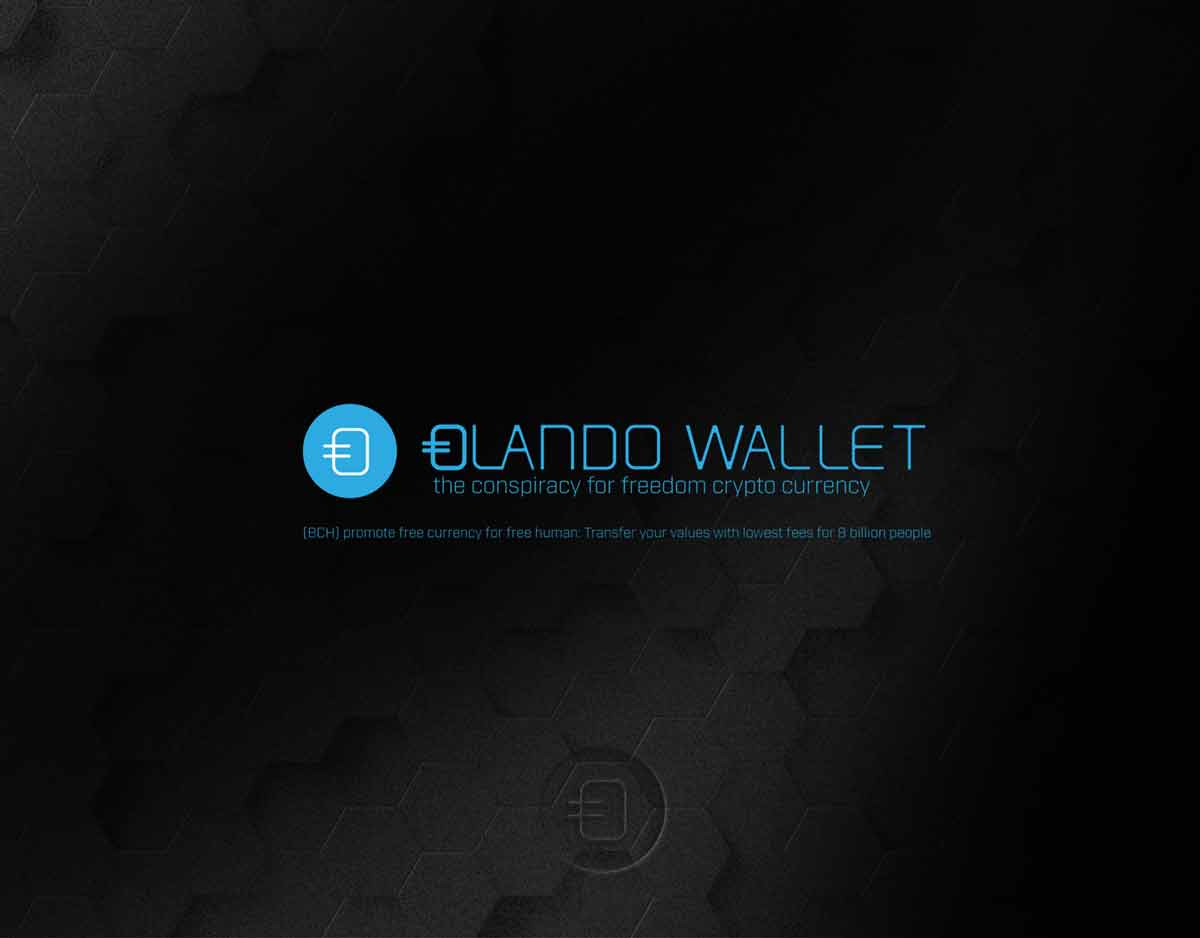
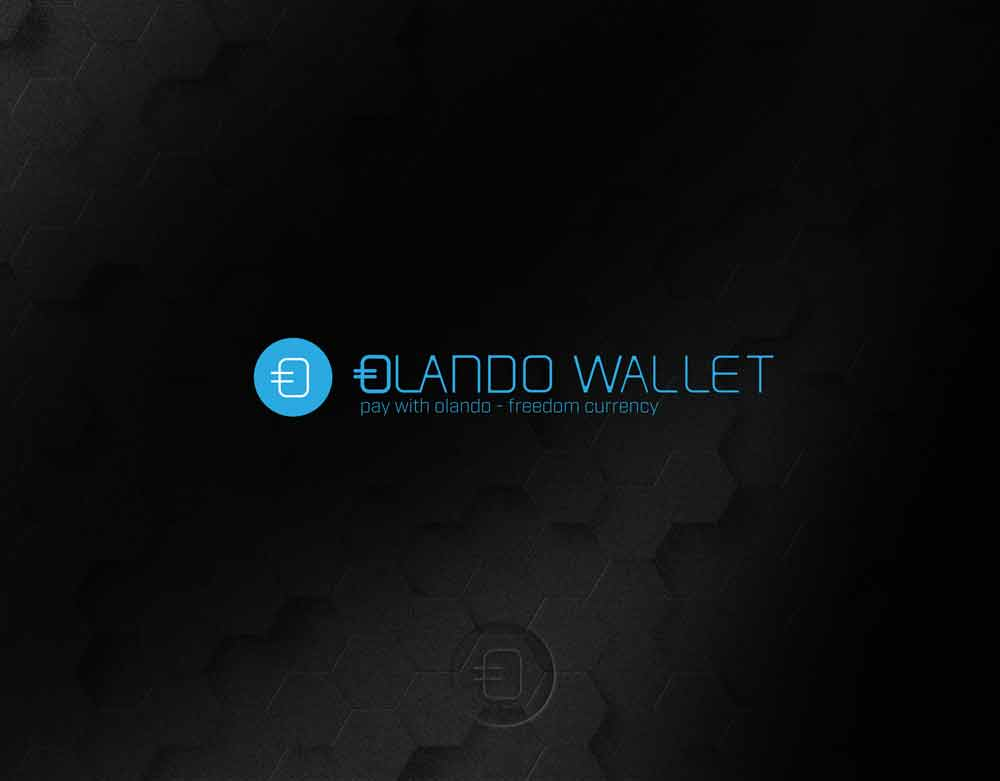
Team remarks response

Changed region(s): [[0.248, 0.4302, 0.775, 0.5839]]

diff --git a/src/pages/WalletPage.vue b/src/pages/WalletPage.vue
@@ -162,14 +162,14 @@ import OfflineDetector from 'src/components/offlineDetector.vue'
 <template>
   <OfflineDetector />
   <header>
-    <img :src="settingsStore.darkMode? 'images/olando-wallet-logo.png' : 'images/olando-wallet-logo.png'" alt="CC-Wallet: a Bitcoin Cash Community Currency Wallet" style="max-height: 120px; max-width:95%" >
+    <img :src="settingsStore.darkMode? 'images/olando-wallet-logo.png' : 'images/olando-wallet-logo.png'" alt="CC-Wallet: a Bitcoin Cash Community Currency Wallet" style="max-height: 80px; max-width:95%" >
     <nav v-if="store.displayView" style="display: flex; justify-content: center; user-select: none;" class="tabs">
       <div @click="store.changeView(1)" class="bold" :class="{ active: store.displayView == 1 }"> {{ isMobile ? "BCH" : "BCH" }} </div>
       <div @click="store.changeView(2)" class="bold" :class="{ active: store.displayView == 2 }"> {{ isMobile ? olandoSymbol : olandoSymbol }} </div>
       <div @click="store.changeView(9)" :class="{ active: store.displayView == 9 }"> {{ isMobile ? "Buy" : "Buy" }} </div>
       <div @click="store.changeView(3)" :class="{ active: store.displayView == 3 }"> {{ isMobile ? "History" : "History" }} </div>
       <div v-if="settingsStore.walletConnect" @click="store.changeView(4)" v-bind:style="store.displayView == 4 ? {color: 'var(--color-primary'} : ''">{{isMobile?  "Connect" : "WalletConnect"}}</div>
-      <div @click="store.changeView(5)" style="width: max-content; position: relative;">
+      <div @click="() => {store.changeView(5); settingsStore.menuIndex = 0; }" style="width: max-content; position: relative;">
         <img style="vertical-align: text-bottom;" :src="store.displayView == 5 ? 'images/settingsGreen.svg' : (
           settingsStore.darkMode? 'images/settingsLightGrey.svg' : 'images/settings.svg')">
         <span v-if="showNotificationIcon" class="notification-dot"></span>

diff --git a/src/components/myTokens.vue b/src/components/myTokens.vue
@@ -3,7 +3,7 @@
   import tokenItemNFT from './tokenItems/tokenItemNFT.vue'
   import tokenItemFT from './tokenItems/tokenItemFT.vue'
   import { useStore } from 'src/stores/store'
-  import { useQuasar } from 'quasar'
+  import { useQuasar, Notify } from 'quasar'
   import { useSettingsStore } from 'src/stores/settingsStore'
   import { ref } from 'vue'
 
@@ -20,6 +20,17 @@
       timeout : 1000,
       color: "grey-6"
     })
+  }
+
+  function showInfo() {
+    Notify.create({
+      message: `The following token can come from promotion activities or other sources in the BitcoinCash-World.&nbsp;You can send or remove a token to you list above, if you highlight them as „favorite" with the „Star-Icon".`,
+      color: "negative",
+      timeout: 10000,
+      actions: [
+        { icon: 'close', color: 'white', round: true },
+      ]
+    });
   }
 </script>
 
@@ -50,7 +61,7 @@
       <tokenItemNFT v-else :tokenData="tokenData"/>
     </div>
     <div v-if="store.tokenList?.filter(token => !settingsStore.featuredTokens.includes(token.tokenId)).length" style="margin: 10px; margin-top: 20px;">
-      <span @click="showAllTokens = !showAllTokens" style="cursor: pointer;">{{showAllTokens ? "▲ Hide" : "▼ Show"}} other tokens</span>
+      <span @click="showAllTokens = !showAllTokens" style="cursor: pointer;">{{showAllTokens ? "▲ Hide" : "▼ Show"}} other tokens</span><span style="margin-left: 1rem; color: orangered; font-weight: bold; cursor: pointer;" @click="showInfo">[info]</span>
       <div v-if="showAllTokens">
         <div v-for="tokenData in store.tokenList?.filter(token => !settingsStore.featuredTokens.includes(token.tokenId))" :key="tokenData.tokenId.slice(0,6)">
           <tokenItemFT v-if="'amount' in tokenData" :tokenData="tokenData"/>

diff --git a/src/components/settingsMenu.vue b/src/components/settingsMenu.vue
@@ -269,7 +269,7 @@ Are you sure you want to delete the wallet?`;
 
     <div v-if="displaySettingsMenu != 0">
       <div style="margin-bottom: 15px; cursor: pointer;">
-        <input @click="() => displaySettingsMenu = 0" class="button" type="button" style="padding: 1rem 1.5rem; display: block;" value="↲ back to All settings">
+        <input @click="() => displaySettingsMenu = 0" class="button" type="button" style="padding: 0rem; margin: 0rem; display: block; background-color: transparent; color: var(--color-primary); font-size: xx-large; font-weight: bolder;" value="←">
       </div>
     </div>
 
@@ -279,11 +279,11 @@ Are you sure you want to delete the wallet?`;
         <input @click="toggleShowSeedphrase()" class="button primary" type="button" style="padding: 1rem 1.5rem; display: block;" 
           :value="displaySeedphrase? 'Hide seed phrase' : 'Show seed phrase'"
         >
-        <div v-if="displaySeedphrase" @click="copyToClipboard(store.wallet.mnemonic)" style="cursor: pointer;">
+        <div v-if="displaySeedphrase" @click="copyToClipboard(store.wallet.mnemonic)" style="margin-top: 2rem; cursor: pointer; font-size: large; font-weight: bold;">
           {{ store.wallet.mnemonic }}
         </div>
         <br>
-        <div style="margin-bottom:15px;">
+        <div style="margin-bottom:15px; font-size: small;">
           Derivation path of this wallet is 
           <span @click="copyToClipboard(store.wallet.derivationPath)" style="cursor: pointer;">
             {{ store.wallet.derivationPath }}
